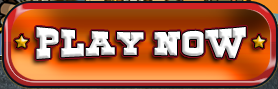
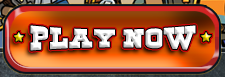
Elements for new index page

diff --git a/pages/css/index.css b/pages/css/index.css
@@ -3,7 +3,7 @@
 ------------------------------------------------- */
 
 #Index {
-    background-image: url("/images/index/index_bkg.png");
+    background-image: url("/images/index/index_bg.jpg");
 	position: relative;
 	top: 0px;
 	left: 0px;
@@ -18,8 +18,8 @@
 ------------------------------------------------- */
 #linkplayB a {
   	position: absolute;
- 	width: 275px;
-  	height: 89px;
+ 	width: 225px;
+  	height: 77px;
   	top: 284px;
   	left: 119px;
   	margin: 0px;
@@ -40,8 +40,8 @@ a#btnplayB:hover {
 
 #linkdl a {
   	position: absolute;
- 	width: 107px;
-  	height: 23px;
+ 	width: 84px;
+  	height: 17px;
   	top: 377px;
   	left: 151px;
   	margin: 0px;
@@ -59,32 +59,10 @@ a#btndl:hover {
 	border: none;
 }
 
-#linkhelp a {
-  	position: absolute;
- 	width: 69px;
-  	height: 24px;
-  	top: 468px;
-  	left: 247px;
-  	margin: 0px;
-  	padding: 0px;
-  	text-decoration: none;
-  	overflow: hidden;
-
-  }
-
-#linkhelp a i {
-	visibility: hidden;
-}
-
-a#btnhelp:hover {
-	background-image: url("/images/index/help.png");
-	border: none;
-}
-
 #linkfrontier a {
   	position: absolute;
- 	width: 196px;
-  	height: 149px;
+ 	width: 218px;
+  	height: 167px;
   	top: 58px;
   	left: 553px;
   	margin: 0px;
@@ -104,8 +82,8 @@ a#btnfrontier:hover {
 
 #linkitp a {
   	position: absolute;
- 	width: 196px;
-  	height: 152px;
+ 	width: 218px;
+  	height: 167px;
   	top: 237px;
   	left: 553px;
   	margin: 0px;

diff --git a/pages/index.html b/pages/index.html
@@ -12,16 +12,21 @@
     <div id="linkdl"><a href="/download.html" id="btndl">
             <i>Download</i></a>
     </div>
-    <div id="linkhelp"><a href="/support/" id="btnhelp">
-            <i>Help Page</i></a>
-    </div>
     <div id="linkfrontier"><a href="/town/frontier.html" id="btnfrontier">
             <i>Frontier Town</i></a>
     </div>
     <div id="linkitp"><a href="/town/itp.html" id="btnitp">
             <i>Indian Trading Post</i></a>
     </div>
-
+    <div id="video">
+        <object width="425" height="344">
+            <param name="movie" value="http://www.youtube.com/v/LYsOfRbmJzE&amp;hl=en&amp;fs=1&amp;ap=%2526fmt%3D18"></param>
+            <param name="allowFullScreen" value="true"></param>
+            <param name="allowscriptaccess" value="always"></param>
+            <embed src="http://www.youtube.com/v/LYsOfRbmJzE&amp;hl=en&amp;fs=1&amp;ap=%2526fmt%3D18" type="application/x-shockwave-flash" 
+            allowscriptaccess="always" allowfullscreen="true" width="425" height="344"></embed>
+        </object>
+    </div>
 
 </div>
 
